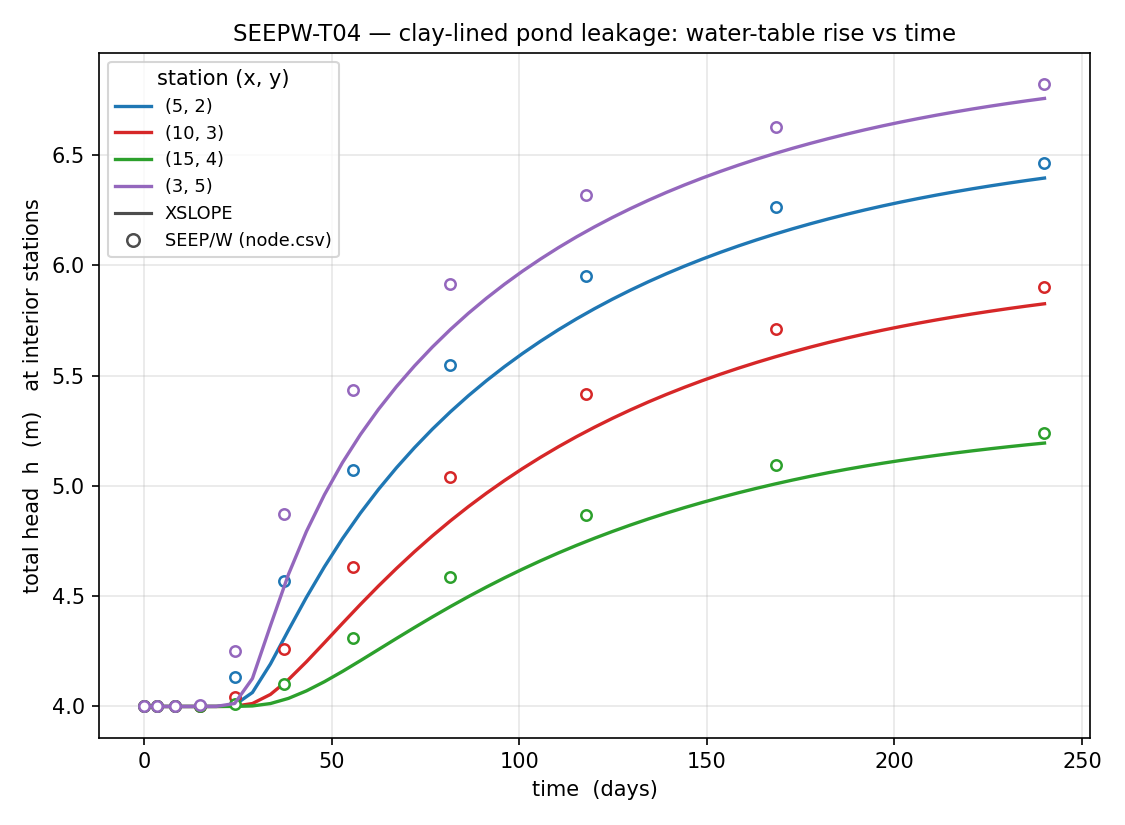
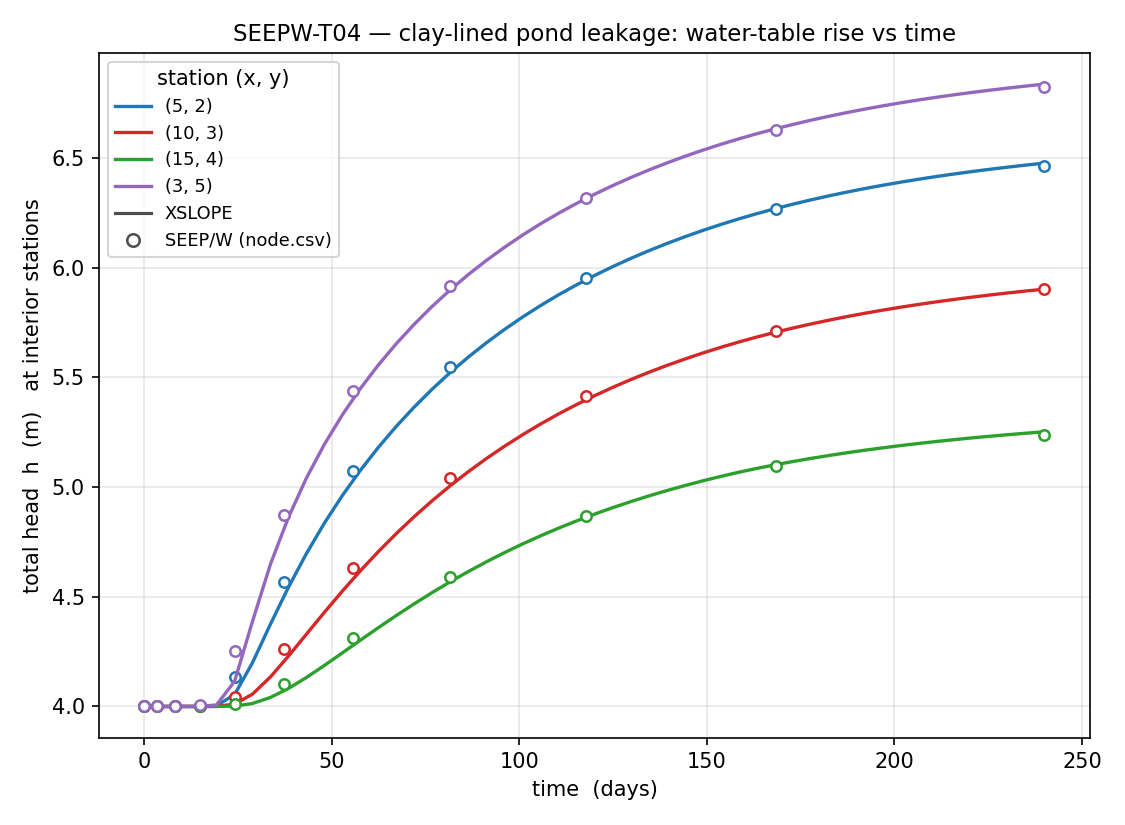
relock(geostudio): T02/T03/T04 under saturated-only storage
T04 (pond with clay liner) is the row this convention was measured on from the
SEEP/W side: leakage into initially unsaturated fill, where the fill's Ss of
9.8e-3 /m sits well above its retention capacity over most of the suction range.
The 240-day near-steady frame goes from 0.03-0.08 m low to within +/-0.02 m of
SEEP/W at every station (0.3% of the 6.5 m pond head), and the 24-day filling frame
from 0.13-0.24 m to 0.08-0.14 m low. Dot yellow -> green.

T03 (rapid drawdown) moves at the drained end only — the interior stations run
0.09-0.23 m below SEEP/W across the 30 days, still largest at the t=0 steady IC,
which is unchanged. T02 (infiltration into dry soil) improves slightly: the wetted
zone now tracks SEEP/W to 0.028 m and the mid-front crossing sits 0.017 m deeper
than the vendor's rather than 0.022 m.

T01 (consolidation), T05 (heap) and T07 (multistep outflow) are unmoved: T01 is
saturated throughout, and T05/T07 are unsaturated columns whose storage was already
the retention capacity.

Claude-Session: https://claude.ai/code/session_0147GB4LGVZuqGHCRMVzZTsR

diff --git a/docs/verification/geostudio.md b/docs/verification/geostudio.md
@@ -98,9 +98,9 @@ The dot scores the **match quality of what is locked**, not how much of a proble
 | [2.46](#gs-2-46) | 🟢 | Eurocode 7 – Earth Dam | On SLOPE/W's own circle M-P 1.099 vs 1.101 (−0.2%) · Bishop free search 1.074 vs the Smith textbook's Bishop 1.07 (+0.4%) | **built**; DA1-C2 factors with pore pressures from XSLOPE's own finite-element seepage |
 | [2.47](#gs-2-47) | <span class="nodata">⊘</span> | Compound Strength vs Anisotropic Function | | *blocked* — needs a dip-relative strength model |
 | [T01](#seepw-t01) | 🟢 | SEEP/W – Simulating consolidation | Centre excess pore pressure within 0.02 kPa of the Terzaghi closed form at 25 / 50 / 75% consolidation (t = 150 / 604 / 1460 s; 9.96 / 7.78 / 3.95 kPa) — 0.2% of the 10 kPa initial excess | **built**; saturated storage S<sub>s</sub>, where SEEP/W's ten exponential time steps lag the closed form at late time |
-| [T02](#seepw-t02) | 🟢 | SEEP/W – Infiltration into dry soil | Wetted zone behind the front within 0.05 m of SEEP/W head at t = 46 800 s (0.6% of the 8 m suction step) | **built**; unsaturated storage C(ψ) and van Genuchten–Mualem k<sub>r</sub>(ψ) — the mid-front crossing sits 0.04 m deeper than SEEP/W's (lumped- versus consistent-mass front diffusion) |
-| [T03](#seepw-t03) | 🟢 | SEEP/W – Rapid drawdown | Interior total head tracks SEEP/W within 0.08–0.23 m through the 30-day drawdown (1.0–2.9% of the 8 m drawdown) | **built** (both drawdown rates); the reference column is sampled from SEEP/W's own solved `node.csv` field with the same probe used on XSLOPE's |
-| [T04](#seepw-t04) | 🟡 | SEEP/W – Leakage from pond with clay liner | Interior head within 0.03–0.08 m of SEEP/W at the near-steady leaking state (≈1% of the 6.5 m pond head) · 0.13–0.24 m low mid-fill (3.6% at worst) | **built**; the residual is the filling *rate*, traced by measurement to the elastic *S*<sub>s</sub> being applied above the phreatic surface |
+| [T02](#seepw-t02) | 🟢 | SEEP/W – Infiltration into dry soil | Wetted zone behind the front within 0.03 m of SEEP/W head at t = 46 800 s (0.4% of the 8 m suction step) | **built**; unsaturated storage C(ψ) and van Genuchten–Mualem k<sub>r</sub>(ψ) — the mid-front crossing sits 0.02 m deeper than SEEP/W's (lumped- versus consistent-mass front diffusion) |
+| [T03](#seepw-t03) | 🟢 | SEEP/W – Rapid drawdown | Interior total head tracks SEEP/W within 0.09–0.23 m through the 30-day drawdown (1.1–2.9% of the 8 m drawdown) | **built** (both drawdown rates); the reference column is sampled from SEEP/W's own solved `node.csv` field with the same probe used on XSLOPE's |
+| [T04](#seepw-t04) | 🟢 | SEEP/W – Leakage from pond with clay liner | Interior head within ±0.02 m of SEEP/W at the near-steady leaking state (0.3% of the 6.5 m pond head) · 0.08–0.14 m low mid-fill (2.1% at worst) | **built**; the residual is in the filling *rate*, on a problem whose timing the saturated-only storage convention governs outright |
 | [T05](#seepw-t05) | 🟢 | SEEP/W – Mineral heap leaching | Head within ~0.04 m of SEEP/W at the initial and early frames and ~0.12 m at the high-rate near-steady (0.5–1.5% of the 8 m column) | **built**; specified-flux (Neumann) top boundary on a gravity-drained unsaturated column |
 | [T06](#seepw-t06) | <span class="nodata">⊘</span> | SEEP/W – Infiltration into multi-layered system | Two gates on the 14-layer infiltration leg: a measured, non-steady per-layer initial condition no steady solve returns, and a unit-gradient (free-drainage) base boundary that is not in the solver's boundary-condition set. The drainage leg is hysteretic, and XSLOPE carries one retention curve per material. | *blocked* |
 | [T07](#seepw-t07) | 🟢 | SEEP/W – GeoStudio-PEST Multistep Outflow | Column total head −0.093 / −0.134 / −0.175 m at the three stages, reproducing SEEP/W's −0.07 … −0.22 m pressure field to the published read-off precision | **built**; stepped base suction through a time-varying head (plain-Dirichlet) series |
@@ -1141,20 +1141,20 @@ t > 0 the top steps to the ponded head.
 The comparison is against SEEP/W's own `node.csv` pressure field at the final time (the
 published external reference is the [Warrick, Lomen & Yates (1985)](https://doi.org/10.2136/sssaj1985.03615995004900010006x) semi-analytical
 profile). XSLOPE reproduces the **wetted zone** behind the front — the physically
-meaningful, water-bearing part of the profile — to within 0.035 m of head:
+meaningful, water-bearing part of the profile — to within 0.028 m of head:
 
 | y (m) | XSLOPE ψ | SEEP/W ψ (Δ = XSLOPE − SEEP/W) |
 |---:|---:|---:|
-| 0.6 | −0.199 m | −0.166 m (−0.033 m) |
-| 0.7 | −0.076 m | −0.064 m (−0.012 m) |
-| 0.8 | −0.022 m | −0.020 m (−0.003 m) |
-| 0.9 | −0.003 m | −0.003 m (+0.001 m) |
+| 0.6 | −0.194 m | −0.166 m (−0.028 m) |
+| 0.7 | −0.074 m | −0.064 m (−0.010 m) |
+| 0.8 | −0.021 m | −0.020 m (−0.001 m) |
+| 0.9 | −0.002 m | −0.003 m (+0.001 m) |
 
 Below the front the two agree to 0.002 m: both hold the dry column at its ψ = −8 m
 initial condition, which barely moves in 46 800 s because kr(ψ = −8) on the flat tail of
 the van Genuchten–Mualem curve is 1.1×10⁻⁴ of Ksat. The only visible offset is at the
-front itself. The mid-front (ψ = −4 m) crossing lands at y = 0.402 in XSLOPE against
-y = 0.380 in SEEP/W — a 0.022 m offset that is the expected **lumped-mass vs
+front itself. The mid-front (ψ = −4 m) crossing lands at y = 0.397 in XSLOPE against
+y = 0.380 in SEEP/W — a 0.017 m offset that is the expected **lumped-mass vs
 consistent-mass front diffusion**: XSLOPE uses a lumped HRZ mass matrix, which damps the
 front oscillations SEEP/W's own dry-soil write-up warns about at the cost of a slightly
 smeared front position. The four wetted-zone points above are locked at a 0.08 m
@@ -1164,7 +1164,7 @@ carries the front-diffusion offset.
 **Sources:** GeoStudio SEEP/W example "Verification – Infiltration into Dry Soil";
 Warrick, Lomen & Yates (1985), *Soil Sci. Soc. Am. J.* 49.
 
-<!-- test: file=files/geostudio/gs2_infil.xlsx, type=tseep_head, target_size=0.01, time=46800, max_head_change_frac=0.01, points=0.025:0.6:0.4344;0.025:0.7:0.6358;0.025:0.8:0.7803;0.025:0.9:0.8967, tolerance=0.08, benchmark=SEEPW-INF -->
+<!-- test: file=files/geostudio/gs2_infil.xlsx, type=tseep_head, target_size=0.01, time=46800, max_head_change_frac=0.01, points=0.025:0.6:0.4057;0.025:0.7:0.6262;0.025:0.8:0.7786;0.025:0.9:0.8978, tolerance=0.08, benchmark=SEEPW-INF -->
 
 ### SEEPW-T03 — Rapid drawdown {#seepw-t03}
 
@@ -1211,13 +1211,13 @@ in how they were read.
 | (20, 5) | IC (full reservoir) | 7.166 m | 7.280 m (−0.11 m) |
 | (25, 5) | IC (full reservoir) | 6.030 m | 6.258 m (−0.23 m) |
 | (30, 3) | IC (full reservoir) | 4.818 m | 5.008 m (−0.19 m) |
-| (20, 5) | slow, t = 1.2 d | 6.427 m | 6.509 m (−0.08 m) |
-| (30, 3) | slow, t = 1.2 d | 4.755 m | 4.914 m (−0.16 m) |
-| (20, 5) | instantaneous, t = 30 d | 3.714 m | 3.808 m (−0.09 m) |
-| (35, 2) | instantaneous, t = 30 d | 2.236 m | 2.331 m (−0.10 m) |
+| (20, 5) | slow, t = 1.2 d | 6.421 m | 6.509 m (−0.09 m) |
+| (30, 3) | slow, t = 1.2 d | 4.753 m | 4.914 m (−0.16 m) |
+| (20, 5) | instantaneous, t = 30 d | 3.685 m | 3.808 m (−0.12 m) |
+| (35, 2) | instantaneous, t = 30 d | 2.215 m | 2.331 m (−0.12 m) |
 
 Across the whole 30-day drawdown the interior seepage field tracks SEEP/W to within
-0.08–0.23 m of head — 1.0–2.9% of the 8 m drawdown, and the largest of them is at the
+0.09–0.23 m of head — 1.1–2.9% of the 8 m drawdown, and the largest of them is at the
 t = 0 steady initial condition, a state with no storage and no timing in it. XSLOPE runs
 uniformly a little below SEEP/W at every station and both drawdown rates, and the offset is
 close to constant in time — a difference in the steady field the transient starts from, not
@@ -1234,9 +1234,9 @@ analyses that take their pore pressure from this seepage run are a separate comp
 are not part of this seepage lock.
 
 <!-- test: file=files/geostudio/gs2_rdd_inst.xlsx, type=tseep_head, target_size=0.7, time=0, max_head_change_frac=0.05, points=20:5:7.166;25:5:6.030;30:3:4.818;35:2:3.216, tolerance=0.03, benchmark=SEEPW-RDD-inst-ic -->
-<!-- test: file=files/geostudio/gs2_rdd_inst.xlsx, type=tseep_head, target_size=0.7, time=2592000, max_head_change_frac=0.05, points=20:5:3.714;25:5:3.743;30:3:3.167;35:2:2.236, tolerance=0.03, benchmark=SEEPW-RDD-inst-end -->
-<!-- test: file=files/geostudio/gs2_rdd_slow.xlsx, type=tseep_head, target_size=0.7, time=103638, max_head_change_frac=0.05, points=20:5:6.427;25:5:5.857;30:3:4.755;35:2:3.227, tolerance=0.03, benchmark=SEEPW-RDD-slow-mid -->
-<!-- test: file=files/geostudio/gs2_rdd_slow.xlsx, type=tseep_head, target_size=0.7, time=2592000, max_head_change_frac=0.05, points=20:5:3.750;25:5:3.778;30:3:3.200;35:2:2.261, tolerance=0.03, benchmark=SEEPW-RDD-slow-end -->
+<!-- test: file=files/geostudio/gs2_rdd_inst.xlsx, type=tseep_head, target_size=0.7, time=2592000, max_head_change_frac=0.05, points=20:5:3.685;25:5:3.714;30:3:3.139;35:2:2.215, tolerance=0.03, benchmark=SEEPW-RDD-inst-end -->
+<!-- test: file=files/geostudio/gs2_rdd_slow.xlsx, type=tseep_head, target_size=0.7, time=103638, max_head_change_frac=0.05, points=20:5:6.421;25:5:5.853;30:3:4.753;35:2:3.227, tolerance=0.03, benchmark=SEEPW-RDD-slow-mid -->
+<!-- test: file=files/geostudio/gs2_rdd_slow.xlsx, type=tseep_head, target_size=0.7, time=2592000, max_head_change_frac=0.05, points=20:5:3.721;25:5:3.749;30:3:3.172;35:2:2.240, tolerance=0.03, benchmark=SEEPW-RDD-slow-end -->
 
 ### SEEPW-T04 — Leakage from pond with clay liner {#seepw-t04}
 
@@ -1294,28 +1294,29 @@ inverse-squared-distance probe over the four nearest nodes that reads XSLOPE's.
 | station (x, y) | state | XSLOPE h | SEEP/W h (Δ head) |
 |---|---|---:|---:|
 | (5, 2) | IC (pre-fill) | 4.000 m | 4.000 m (0.00 m) |
-| (5, 2) | t = 24 d (filling) | 4.007 m | 4.133 m (−0.13 m) |
-| (3, 5) | t = 24 d (filling) | 4.014 m | 4.251 m (−0.24 m) |
-| (5, 2) | t = 240 d (near-steady) | 6.395 m | 6.463 m (−0.07 m) |
-| (10, 3) | t = 240 d (near-steady) | 5.825 m | 5.900 m (−0.08 m) |
-| (15, 4) | t = 240 d (near-steady) | 5.194 m | 5.238 m (−0.04 m) |
-| (20, 4) | t = 240 d (near-steady) | 4.393 m | 4.424 m (−0.03 m) |
+| (5, 2) | t = 24 d (filling) | 4.054 m | 4.133 m (−0.08 m) |
+| (3, 5) | t = 24 d (filling) | 4.113 m | 4.251 m (−0.14 m) |
+| (5, 2) | t = 240 d (near-steady) | 6.476 m | 6.463 m (+0.01 m) |
+| (10, 3) | t = 240 d (near-steady) | 5.901 m | 5.900 m (+0.00 m) |
+| (15, 4) | t = 240 d (near-steady) | 5.252 m | 5.238 m (+0.01 m) |
+| (20, 4) | t = 240 d (near-steady) | 4.409 m | 4.424 m (−0.02 m) |
 
-The initial condition is exact (uniform head 4) and the fully developed leaking state now
-tracks SEEP/W to **0.03–0.08 m** at every station — about 1% of the 6.5 m pond head. The
-worst delta has moved to the *filling* frame at 24 days, where XSLOPE is 0.13–0.24 m low,
-i.e. it fills more slowly than SEEP/W.
+The initial condition is exact (uniform head 4) and the fully developed leaking state
+tracks SEEP/W to **±0.02 m** at every station — 0.3% of the 6.5 m pond head, at the limit of
+what the two meshes can be expected to agree to. The largest deltas are on the *filling*
+frame at 24 days, where XSLOPE is 0.08–0.14 m low, i.e. it fills a little more slowly than
+SEEP/W.
 
-That residual has a measured cause rather than an attributed one. XSLOPE adds the elastic
-specific storage S<sub>s</sub> everywhere, including above the phreatic surface, while
-SEEP/W applies m<sub>v</sub> only where the soil is saturated and takes the unsaturated
-capacity from the retention curve alone; leakage into initially unsaturated fill therefore
-has ~9.8×10⁻³ m⁻¹ of storage to fill in XSLOPE that SEEP/W does not carry. Re-running the
-same model with S<sub>s</sub> confined to the saturated zone takes the 240-day frame to
-±0.016 m at every station and the 24-day frame to −0.08 / −0.13 m. The same term accounts
-for [GW18](rocscience_groundwater.md#gw18)'s late-frame timing lag on the Slide2 corpus.
-It is recorded here rather than changed: it sets the timing of every transient row in
-both corpora.
+The storage convention is what puts the near-steady frame there. XSLOPE applies the elastic
+specific storage S<sub>s</sub> in the saturated zone only and takes the storage above the
+phreatic surface from the retention curve alone, which is SEEP/W's convention as well
+(m<sub>v</sub> acts only where the soil is saturated). On a problem like this one — leakage
+into initially unsaturated fill, over 240 days — the choice governs the filling rate
+outright: the fill's S<sub>s</sub> is 9.8×10⁻³ m⁻¹, well above the retention capacity over
+most of the suction range the embankment spans, so carrying it above the water table as well
+would add storage the vendor's model does not have. The same term sets the timing of
+[GW18](rocscience_groundwater.md#gw18) on the Slide2 corpus, where the two coefficients
+differ by a factor of 27.
 
 The locks are on the interior stations at the two near-steady end members (IC and
 t = 240 d), at a 0.03 m regression tolerance on XSLOPE's own values.
@@ -1323,7 +1324,7 @@ t = 240 d), at a 0.03 m regression tolerance on XSLOPE's own values.
 **Sources:** GeoStudio SEEP/W example "Leakage from Pond with Clay Liner" (Seequent).
 
 <!-- test: file=files/geostudio/gs2_pond.xlsx, type=tseep_head, target_size=0.5, refine_factor=2, time=0, max_head_change_frac=0.05, points=5:2:4.0000;10:3:4.0000;15:4:4.0000, tolerance=0.03, benchmark=SEEPW-POND-ic -->
-<!-- test: file=files/geostudio/gs2_pond.xlsx, type=tseep_head, target_size=0.5, refine_factor=2, time=2.0736e+07, max_head_change_frac=0.05, points=5:2:6.3949;10:3:5.8250;15:4:5.1938, tolerance=0.03, benchmark=SEEPW-POND-end -->
+<!-- test: file=files/geostudio/gs2_pond.xlsx, type=tseep_head, target_size=0.5, refine_factor=2, time=2.0736e+07, max_head_change_frac=0.05, points=5:2:6.4757;10:3:5.9014;15:4:5.2516, tolerance=0.03, benchmark=SEEPW-POND-end -->
 
 ### SEEPW-T05 — Mineral heap leaching {#seepw-t05}
 
